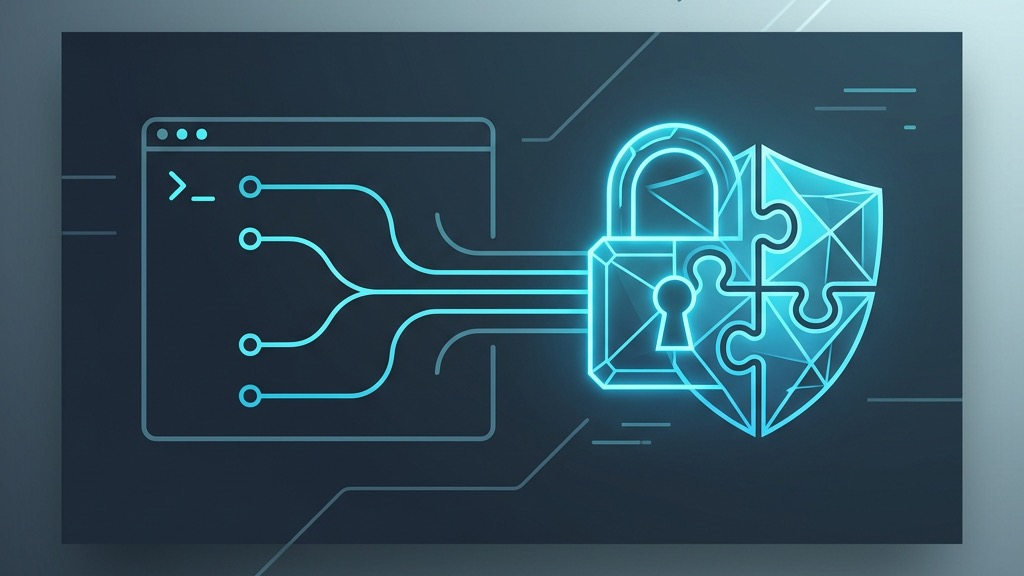
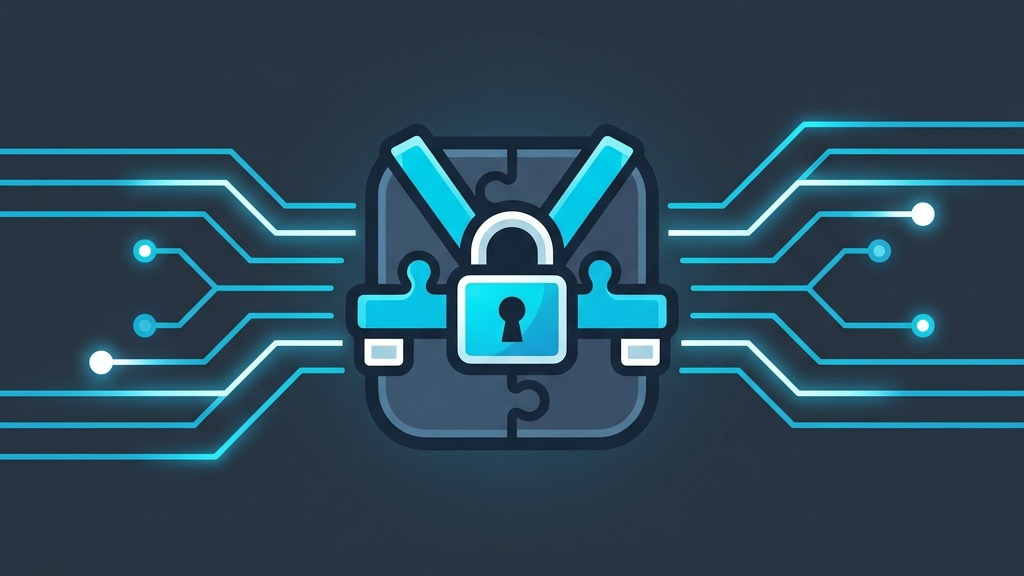
style: replace Part 1 and Part 3 Hero images with premium, widescreen-safe, titled designs

diff --git a/src/content/blog/worktree-refactor-playbook.md b/src/content/blog/worktree-refactor-playbook.md
@@ -2,7 +2,7 @@
 title: 'Vibe Coding with Git Worktrees (Part 1): A Playbook Most Devs Are Missing'
 description: 'Most people vibe-code with one model in one branch. Here is how to use multiple models, git worktrees, and a phased workflow to ship refactors without breaking everything.'
 pubDate: 'Feb 5 2026'
-heroImage: '../../assets/worktree-refactor-hero.svg'
+heroImage: '../../assets/vibe-coding-hero.png'
 tags: ['Vibe Coding', 'Git', 'Worktrees', 'Claude', 'AI Tools', 'Engineering']
 ---
 